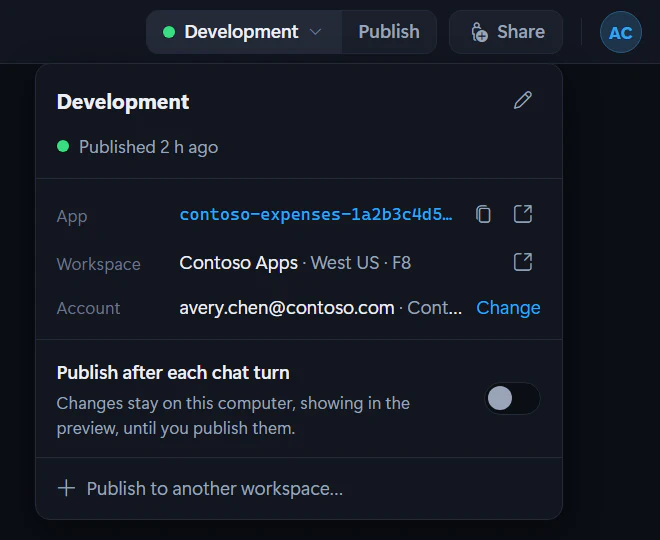
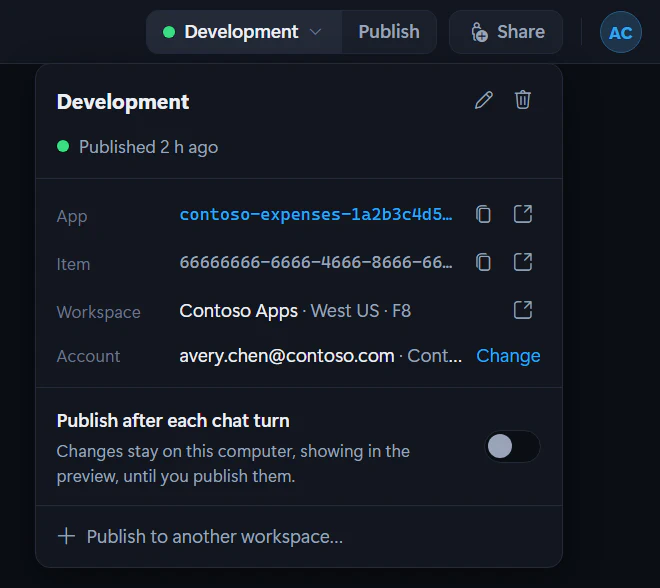
Link to the published app's item in Fabric
The status bar's workspace link opened the Fabric workspace, and the
Published apps panel had no way to reach the app's own item in it.

- The status bar opens the published app's item in the Fabric portal,
  with the link rayfin up recorded, which opens it in the item's
  tenant. It opens the workspace when the item isn't known.
- The Published apps panel has an Item row: the item's ID, Copy item
  ID, and Open in Fabric.
- Docs: the panel and the status bar, with the deployments screenshot
  recaptured.

Copilot-Session: 414ac3e1-b20d-4b8e-822c-9768cded88a4

diff --git a/src/renderer/src/components/DeploymentsControl.tsx b/src/renderer/src/components/DeploymentsControl.tsx
@@ -12,7 +12,12 @@ import type {
 import { useSuppressPreview } from '../overlay'
 import { useToast } from '../toast'
 import { authErrorMessage } from '../authErrors'
-import { REGION_AVAILABILITY_URL, fabricWorkspaceUrl } from '../fabric'
+import {
+  REGION_AVAILABILITY_URL,
+  fabricItemUrl,
+  fabricWorkspaceUrl,
+  publishedItem
+} from '../fabric'
 import { clockLabel, meterStepLabel, useDeployMeter } from '../deployMeter'
 import { Codicon } from './icons'
 import DeploymentCreateForm, { checkActiveDeployTarget } from './DeploymentCreateForm'
@@ -191,7 +196,8 @@ export default function DeploymentsControl({
   const [sharing, setSharing] = useState<FabricDeployment | null>(null)
   /** Share was clicked and the deployment it targets is still loading. */
   const [openingShare, setOpeningShare] = useState(false)
-  const [copied, setCopied] = useState(false)
+  /** What was just copied: the app's link or its item's id. */
+  const [copied, setCopied] = useState<'link' | 'item' | null>(null)
   const copiedTimer = useRef(0)
   const openingShareRef = useRef(false)
   const projectIdRef = useRef(project.id)
@@ -375,6 +381,15 @@ export default function DeploymentsControl({
   // The address and workspace are the active deployment's: not yet the new one's.
   const appUrl = toNew ? undefined : activeDep?.hostingUrl || project.lastDeploy?.url || activeDep?.apiUrl
   const shownWorkspace = toNew ? undefined : workspaceName
+  // Its item in Fabric: the active deployment's, or the one `rayfin up` linked to. For the
+  // same item, that link wins: it opens the item in its tenant (`ctid`).
+  const recordedItem = publishedItem(project)
+  const itemId = toNew ? undefined : activeDep?.itemId?.trim() || recordedItem?.id
+  const itemLink = toNew
+    ? undefined
+    : recordedItem && recordedItem.id.toLowerCase() === itemId?.toLowerCase()
+      ? recordedItem.url
+      : fabricItemUrl(workspaceId, itemId)
   const others = (deployments ?? []).filter((d) => !d.active).sort(byDeployedAt)
 
   function openCreate(): void {
@@ -617,14 +632,16 @@ export default function DeploymentsControl({
     }
   }
 
-  async function copyLink(url: string): Promise<void> {
+  async function copyText(text: string, what: 'link' | 'item'): Promise<void> {
     try {
-      await navigator.clipboard.writeText(url)
-      setCopied(true)
+      await navigator.clipboard.writeText(text)
+      setCopied(what)
       window.clearTimeout(copiedTimer.current)
-      copiedTimer.current = window.setTimeout(() => setCopied(false), 1200)
+      copiedTimer.current = window.setTimeout(() => setCopied(null), 1200)
     } catch {
-      toast.error('Could not copy the link.', { title: 'Copy failed' })
+      toast.error(what === 'link' ? 'Could not copy the link.' : 'Could not copy the item ID.', {
+        title: 'Copy failed'
+      })
     }
   }
 
@@ -1005,11 +1022,11 @@ export default function DeploymentsControl({
                         <button
                           type="button"
                           className="dep-ico"
-                          title={copied ? 'Copied' : 'Copy link'}
-                          aria-label={copied ? 'Copied' : 'Copy link'}
-                          onClick={() => void copyLink(appUrl)}
+                          title={copied === 'link' ? 'Copied' : 'Copy link'}
+                          aria-label={copied === 'link' ? 'Copied' : 'Copy link'}
+                          onClick={() => void copyText(appUrl, 'link')}
                         >
-                          <Codicon name={copied ? 'check' : 'copy'} />
+                          <Codicon name={copied === 'link' ? 'check' : 'copy'} />
                         </button>
                         <button
                           type="button"
@@ -1017,6 +1034,34 @@ export default function DeploymentsControl({
                           title="Open in your browser"
                           aria-label="Open in your browser"
                           onClick={() => void window.api.openExternal(appUrl)}
+                        >
+                          <Codicon name="link-external" />
+                        </button>
+                      </dd>
+                    </>
+                  )}
+                  {itemLink && itemId && (
+                    <>
+                      <dt>Item</dt>
+                      <dd>
+                        <span className="dep-val dep-id" title={itemId}>
+                          {itemId}
+                        </span>
+                        <button
+                          type="button"
+                          className="dep-ico"
+                          title={copied === 'item' ? 'Copied' : 'Copy item ID'}
+                          aria-label={copied === 'item' ? 'Copied' : 'Copy item ID'}
+                          onClick={() => void copyText(itemId, 'item')}
+                        >
+                          <Codicon name={copied === 'item' ? 'check' : 'copy'} />
+                        </button>
+                        <button
+                          type="button"
+                          className="dep-ico"
+                          title="Open in Fabric"
+                          aria-label="Open in Fabric"
+                          onClick={() => void window.api.openExternal(itemLink)}
                         >
                           <Codicon name="link-external" />
                         </button>

diff --git a/src/renderer/src/components/DeploymentsControl.test.tsx b/src/renderer/src/components/DeploymentsControl.test.tsx
@@ -257,6 +257,59 @@ describe('DeploymentsControl chip', () => {
       expect(onSignIn).toHaveBeenCalledTimes(1)
       expect(api.auth.loginRayfin).not.toHaveBeenCalled()
     })
+
+    it('links the published app’s item in Fabric, with its ID to copy', async () => {
+      const WS = 'de0fcf1a-8c94-46cf-a029-650b2e87f172'
+      const ITEM = '6a1f0c2e-3b4d-4e5f-8a9b-0c1d2e3f4a5b'
+      const page = `https://app.fabric.microsoft.com/groups/${WS}/appbackends/${ITEM}`
+      const recorded = `${page}?ctid=22222222-2222-4222-8222-222222222222`
+      const api = Object.assign(installApi(), { openExternal: vi.fn() })
+      api.deploy.list.mockResolvedValue([
+        { workspaceName: 'Sales', workspaceId: WS, itemId: ITEM, active: true }
+      ])
+      const writeText = vi.fn().mockResolvedValue(undefined)
+      const original = (navigator as unknown as { clipboard?: unknown }).clipboard
+      Object.defineProperty(navigator, 'clipboard', { value: { writeText }, configurable: true })
+      const ui = (portalUrl?: string): JSX.Element => (
+        <ToastProvider>
+          <OverlayProvider>
+            <DeploymentsControl
+              project={makeProject({
+                workspace: WS,
+                lastDeploy: { url: 'https://sales.example.app/', portalUrl, status: 'success' }
+              })}
+              running={false}
+              onCreate={vi.fn()}
+              onRedeploy={vi.fn()}
+              onSwitch={vi.fn()}
+              onChanged={vi.fn()}
+            />
+          </OverlayProvider>
+        </ToastProvider>
+      )
+      try {
+        const { rerender } = render(ui(recorded))
+        fireEvent.click(screen.getByRole('button', { name: /Published app:/ }))
+        const id = await screen.findByText(ITEM)
+        expect(id.closest('dd')?.previousElementSibling?.textContent).toBe('Item')
+
+        // The link `rayfin up` recorded opens the item in its tenant.
+        fireEvent.click(screen.getByRole('button', { name: 'Open in Fabric' }))
+        expect(api.openExternal).toHaveBeenLastCalledWith(recorded)
+        // Without one, the link is built from the published app's ids.
+        rerender(ui(undefined))
+        fireEvent.click(screen.getByRole('button', { name: 'Open in Fabric' }))
+        expect(api.openExternal).toHaveBeenLastCalledWith(page)
+
+        await act(async () => {
+          fireEvent.click(screen.getByRole('button', { name: 'Copy item ID' }))
+        })
+        expect(writeText).toHaveBeenCalledWith(ITEM)
+        expect(screen.getByRole('button', { name: 'Copied' })).toBeTruthy()
+      } finally {
+        Object.defineProperty(navigator, 'clipboard', { value: original, configurable: true })
+      }
+    })
   })
 
   describe('DeploymentsControl state and action', () => {

diff --git a/src/renderer/src/fabric.ts b/src/renderer/src/fabric.ts
@@ -74,8 +74,8 @@ export function refusedAfterPublish(
   return refused
 }
 
-/** Matches a Fabric workspace GUID (the `groups/{id}` segment of a portal URL). */
-const WORKSPACE_GUID = /^[0-9a-f]{8}-[0-9a-f]{4}-[0-9a-f]{4}-[0-9a-f]{4}-[0-9a-f]{12}$/i
+/** Matches a Fabric GUID: a workspace's id (the `groups/{id}` segment of a portal URL) or an item's. */
+const FABRIC_GUID = /^[0-9a-f]{8}-[0-9a-f]{4}-[0-9a-f]{4}-[0-9a-f]{4}-[0-9a-f]{12}$/i
 
 /**
  * Build the Fabric portal deep link for a workspace from its GUID, e.g.
@@ -89,8 +89,48 @@ const WORKSPACE_GUID = /^[0-9a-f]{8}-[0-9a-f]{4}-[0-9a-f]{4}-[0-9a-f]{4}-[0-9a-f
  */
 export function fabricWorkspaceUrl(workspaceId?: string): string | undefined {
   const id = workspaceId?.trim()
-  if (!id || !WORKSPACE_GUID.test(id)) return undefined
+  if (!id || !FABRIC_GUID.test(id)) return undefined
   return `https://app.fabric.microsoft.com/groups/${id}/`
+}
+
+/**
+ * The Fabric portal page of a published app's item, the one `rayfin up` links
+ * to: `https://app.fabric.microsoft.com/groups/{workspace}/appbackends/{item}`.
+ * `undefined` unless both ids are GUIDs, as a deployment records them.
+ */
+export function fabricItemUrl(workspaceId?: string, itemId?: string): string | undefined {
+  const workspace = workspaceId?.trim()
+  const item = itemId?.trim()
+  if (!workspace || !item || !FABRIC_GUID.test(workspace) || !FABRIC_GUID.test(item))
+    return undefined
+  return `https://app.fabric.microsoft.com/groups/${workspace}/appbackends/${item}`
+}
+
+/** A published app's item in the Fabric portal: its page, and its id. */
+export interface FabricItem {
+  url: string
+  id: string
+}
+
+/**
+ * The published app's item in the Fabric portal, as `rayfin up` linked it
+ * (`lastDeploy.portalUrl`: `…/groups/{workspace}/{type}/{item}`), while it's in
+ * the workspace the project names. `undefined` otherwise, so the footer and the
+ * published apps panel fall back to the workspace.
+ */
+export function publishedItem(project: StudioProject): FabricItem | undefined {
+  const link = project.lastDeploy?.portalUrl
+  let url: URL
+  try {
+    url = new URL(link ?? '')
+  } catch {
+    return undefined
+  }
+  const [, workspace, id] = /^\/groups\/([^/]+)\/[^/]+\/([^/]+)/i.exec(url.pathname) ?? []
+  if (!link || url.protocol !== 'https:' || !id) return undefined
+  const shown = project.workspace?.trim()
+  if (shown && FABRIC_GUID.test(shown) && !sameText(workspace, shown)) return undefined
+  return { url: link, id: decodeURIComponent(id) }
 }
 
 /** A workspace one of your apps uses, and when it last did (ms; 0 when unknown). */

diff --git a/src/renderer/src/fabric.test.ts b/src/renderer/src/fabric.test.ts
@@ -1,7 +1,9 @@
 import { describe, expect, it } from 'vitest'
 import type { StudioProject, UnsupportedWorkspace } from '@shared/ipc'
 import {
+  fabricItemUrl,
   fabricWorkspaceUrl,
+  publishedItem,
   recentWorkspaces,
   refusalFor,
   refusedAfterPublish,
@@ -35,6 +37,45 @@ describe('fabricWorkspaceUrl', () => {
     expect(fabricWorkspaceUrl(undefined)).toBeUndefined()
     expect(fabricWorkspaceUrl('')).toBeUndefined()
     expect(fabricWorkspaceUrl('   ')).toBeUndefined()
+  })
+})
+
+describe('Fabric items', () => {
+  const WS = 'de0fcf1a-8c94-46cf-a029-650b2e87f172'
+  const OTHER_WS = '11111111-1111-4111-8111-111111111111'
+  const ITEM = '6a1f0c2e-3b4d-4e5f-8a9b-0c1d2e3f4a5b'
+  const page = (ws: string, protocol = 'https'): string =>
+    `${protocol}://app.fabric.microsoft.com/groups/${ws}/appbackends/${ITEM}`
+  // How `rayfin up` records it: with the tenant to open it in.
+  const link = (ws: string, protocol = 'https'): string =>
+    `${page(ws, protocol)}?ctid=22222222-2222-4222-8222-222222222222`
+  const published = (portalUrl?: string): StudioProject => ({
+    id: 'p',
+    name: 'Sales',
+    path: 'C:\\apps\\sales',
+    addedAt: '2026-01-01T00:00:00.000Z',
+    workspace: WS,
+    lastDeploy: { url: 'https://sales.example.app', portalUrl, status: 'success' }
+  })
+
+  it('links an item in its workspace the way rayfin up does, given both GUIDs', () => {
+    expect(fabricItemUrl(WS, ITEM)).toBe(page(WS))
+    expect(fabricItemUrl(WS, undefined)).toBeUndefined()
+    expect(fabricItemUrl('Rayfin Apps', ITEM)).toBeUndefined()
+    expect(fabricItemUrl(WS, 'item-1')).toBeUndefined()
+  })
+
+  it('finds the published app’s item from the link rayfin up recorded', () => {
+    expect(publishedItem(published(link(WS)))).toEqual({ url: link(WS), id: ITEM })
+  })
+
+  it('finds no item in another workspace than the project’s, nor in a link that isn’t an item’s https page', () => {
+    expect(publishedItem(published(link(OTHER_WS)))).toBeUndefined()
+    expect(
+      publishedItem(published(`https://app.fabric.microsoft.com/groups/${WS}/`))
+    ).toBeUndefined()
+    expect(publishedItem(published(link(WS, 'http')))).toBeUndefined()
+    expect(publishedItem(published(undefined))).toBeUndefined()
   })
 })
 

diff --git a/src/renderer/src/components/WorkspaceStatus.tsx b/src/renderer/src/components/WorkspaceStatus.tsx
@@ -1,14 +1,15 @@
 import type { StudioProject } from '@shared/ipc'
 import { Codicon } from './icons'
-import { fabricWorkspaceUrl } from '../fabric'
+import { fabricWorkspaceUrl, publishedItem } from '../fabric'
 
 import type { JSX } from 'react'
 
 /**
- * Footer status-bar item for a deployed project's Fabric workspace. Shows the
- * workspace name and, when the project's workspace id is a GUID, links out to the
- * workspace in the Fabric portal (`groups/{id}`). Renders nothing when the project
- * has no known workspace yet (never deployed / not reconciled).
+ * Footer status-bar item for a published project's Fabric workspace. Shows the
+ * workspace name and links out to the published app's item in it, in the Fabric
+ * portal, or to the workspace itself (`groups/{id}`) when the item isn't known.
+ * Renders nothing when the project has no known workspace yet (never published /
+ * not reconciled).
  */
 export default function WorkspaceStatus({
   project
@@ -18,7 +19,8 @@ export default function WorkspaceStatus({
   const name = project.workspaceName || project.workspace
   if (!name) return null
 
-  const url = fabricWorkspaceUrl(project.workspace)
+  const item = publishedItem(project)?.url
+  const url = item ?? fabricWorkspaceUrl(project.workspace)
   if (!url) {
     // No GUID to deep-link with yet — show the name as a plain readout.
     return (
@@ -32,7 +34,11 @@ export default function WorkspaceStatus({
     <button
       className="statusbar-ws"
       onClick={() => void window.api.openExternal(url)}
-      title={`Open workspace “${name}” in the Fabric portal`}
+      title={
+        item
+          ? `Open the published app in the Fabric portal, in workspace “${name}”`
+          : `Open workspace “${name}” in the Fabric portal`
+      }
     >
       <Codicon name="link-external" className="statusbar-ico" />
       <span className="statusbar-ws-name">{name}</span>

diff --git a/src/renderer/src/components/WorkspaceStatus.test.tsx b/src/renderer/src/components/WorkspaceStatus.test.tsx
@@ -39,6 +39,21 @@ describe('WorkspaceStatus footer item', () => {
     )
   })
 
+  it('opens the published app’s item in the workspace when rayfin up linked it', () => {
+    const item = `https://app.fabric.microsoft.com/groups/${WS_GUID}/appbackends/6a1f0c2e-3b4d-4e5f-8a9b-0c1d2e3f4a5b`
+    render(
+      <WorkspaceStatus
+        project={makeProject({
+          workspace: WS_GUID,
+          workspaceName: 'Rayfin Apps',
+          lastDeploy: { url: 'https://sales.example.app', portalUrl: item, status: 'success' }
+        })}
+      />
+    )
+    fireEvent.click(screen.getByRole('button', { name: /Rayfin Apps/ }))
+    expect(openExternal).toHaveBeenCalledWith(item)
+  })
+
   it('uses the raw workspace value as the label when there is no friendly name', () => {
     render(<WorkspaceStatus project={makeProject({ workspace: WS_GUID })} />)
     expect(screen.getByRole('button', { name: new RegExp(WS_GUID) })).toBeTruthy()

diff --git a/src/renderer/src/assets/main.css b/src/renderer/src/assets/main.css
@@ -6808,6 +6808,11 @@ button.deploy-trouble-ray:focus-visible {
   font-size: 11.5px;
   color: var(--accent);
 }
+.dep-id {
+  font-family: var(--font-mono);
+  font-size: 11.5px;
+  color: var(--text-dim);
+}
 .dep-dim {
   color: var(--text-dim);
 }

diff --git a/scripts/docs-screenshots/README.md b/scripts/docs-screenshots/README.md
@@ -217,7 +217,7 @@ of them. The current crops (no crop means the whole 1440×900 window):
 | `migration-card` | harness | `0,610,720,290` |
 | `account-menu` | harness | `1040,0,400,272` |
 | `accounts` | harness | `390,40,660,820` |
-| `deployments` | harness | `1000,0,440,360` |
+| `deployments` | harness | `1000,0,440,392` |
 | `share` | live, `--open` on Share, `--close` on Cancel | `400,240,640,420` |
 | `team-overview`, `skills`, `secrets`, `blueprint`, `app-gallery` | harness | none |
 | `model-relations`, `model-access` | harness | `0,0,1440,770` |
